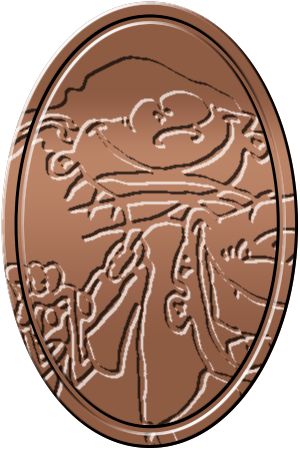
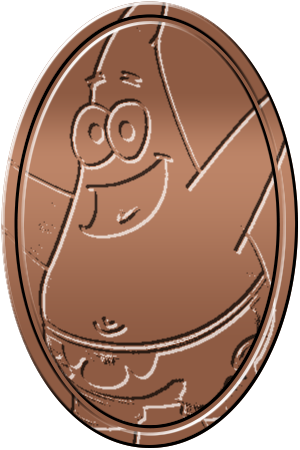
Penny

diff --git a/studio/workshops/lightswitch/scripts.js b/studio/workshops/lightswitch/scripts.js
@@ -1,3 +1,29 @@
 // get the button elements
 var onButton = document.querySelector('button[name="on"]');
+var offButton = document.querySelector('button[name="off"]');
+
+//log the elements to the console 
 console.log(onButton);
+console.log(offButton);
+
+//get the lightbulb element
+var lightbulb = document.querySelector('.lightbulb');
+
+//log the elements to the console
+console.log(lightbulb);
+
+//add event listener to on button
+onButton.addEventListener('click', () => {
+
+    //add the is-on class to the lightbulb element
+    lightbulb.classList.add('is-on');
+
+});
+
+//add event listener to on button
+offButton.addEventListener('click', () => {
+
+    //remove the is-on class to the lightbulb element
+    lightbulb.classList.remove('is-on');
+
+});

diff --git a/studio/workshops/penny-presser/scripts.js b/studio/workshops/penny-presser/scripts.js
@@ -1,0 +1,22 @@
+//get the press button
+var pressButton = document.querySelector ('button[name="press"]');
+var pennySelect = document.querySelector('select[name="penny"]');
+var pennyImage = document.querySelector('.penny');
+
+//log the elements
+console.log(pressButton);
+console.log(pennySelect.value);
+
+//add event listener to press button
+pressButton.addEventListener('click', () => {
+
+    //log the elements
+    console.log(pennySelect.value);
+
+    //set the penny image src
+    pennyImage.src = 'img/' + pennySelect.value;
+
+    //log the penny image
+    console.log(pennyImage);
+
+});

diff --git a/studio/workshops/penny-presser/index.html b/studio/workshops/penny-presser/index.html
@@ -11,9 +11,9 @@
 		<img class="penny" src="img/penny-0.png">
 		<div class="controls">
 			<select name="penny">
-				<option value="penny-1.png">Ed</option>
-				<option value="penny-2.png">Edd</option>
-				<option value="penny-3.png">Eddy</option>
+				<option value="penny-1.png">Patrick</option>
+				<option value="penny-2.png">Spongebob</option>
+				<option value="penny-3.png">Squidward</option>
 			</select>
 			<button name="press">Press</button>
 		</div>

diff --git a/studio/workshops/lightswitch/style.css b/studio/workshops/lightswitch/style.css
@@ -22,3 +22,12 @@ html, body, main {
 	border-radius: 50%;
 	background-color: darkslategray;
 }
+
+.lightbulb.is-on{
+	background-color: yellow;
+	box-shadow: 0 0 10vmin yellow;
+}
+
+button[name="on"] {
+	color: blue;
+}

diff --git a/studio/workshops/penny-presser/style.css b/studio/workshops/penny-presser/style.css
@@ -16,7 +16,7 @@ html, body, main {
 
 /* PENNY */
 
-.container img {
+.penny {
 	width: 150px;
 	filter: drop-shadow(10px 10px 10px rgba(0,0,0,0.25));
 }
